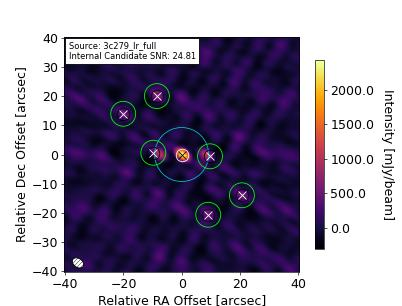
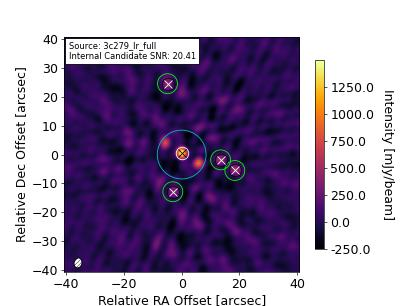
more testing

diff --git a/html/source_info.html b/html/source_info.html
@@ -12,7 +12,7 @@
     }
     </style>
     <body>
-    <p class='centered-large-text'>Source Information for 250106_13:01:37 (ObsID 00000) </p><table border="1" class="dataframe">
+    <p class='centered-large-text'>Source Information for 250106_15:00:08 (ObsID 00000) </p><table border="1" class="dataframe">
   <thead>
     <tr style="text-align: right;">
       <th></th>
@@ -26,27 +26,27 @@
     </tr>
     <tr>
       <th>target_dir</th>
-      <td>/sma/data/science/mir_data/250106_13:01:37</td>
+      <td>/sma/data/science/mir_data/250106_15:00:08</td>
     </tr>
     <tr>
       <th>sciTargs</th>
-      <td>M87</td>
+      <td></td>
     </tr>
     <tr>
       <th>gainCals</th>
-      <td>3c286</td>
+      <td>1653+397, 3c286</td>
     </tr>
     <tr>
       <th>fluxCals</th>
-      <td>vesta</td>
+      <td></td>
     </tr>
     <tr>
       <th>bpCals</th>
-      <td>3C279, 3C273</td>
+      <td>3c279, 3C279</td>
     </tr>
     <tr>
       <th>polCals</th>
-      <td>0958+655_LR, 3C279_LR, 3C273_LR</td>
+      <td>3C273_LR, 3c279_LR, 3C279_LR</td>
     </tr>
     <tr>
       <th>selfCals</th>
@@ -78,22 +78,13 @@
     </tr>
   </tbody>
 </table>
-        <img src='./vesta_full_rb5.0_et0.001.jpg'>
+        <img src='./3c279_full_rb5.0_et0.001.jpg'>
         <br>
         
         <img src='./3c279_lr_full_rb5.0_et0.001.jpg'>
         <br>
         
-        <img src='./3c279_full_rb5.0_et0.001.jpg'>
-        <br>
-        
-        <img src='./3c273_full_rb5.0_et0.001.jpg'>
-        <br>
-        
-        <img src='./3c273_lr_full_rb5.0_et0.001.jpg'>
-        <br>
-        
-        <img src='./m87_full_rb5.0_et0.001.jpg'>
+        <img src='./1653+397_full_rb5.0_et0.001.jpg'>
         <br>
         
         <img src='./3c286_full_rb5.0_et0.001.jpg'>
@@ -102,48 +93,9 @@
   <thead>
     <tr style="text-align: right;">
       <th></th>
-      <th>field_name</th>
-      <th>obs_date_time</th>
-      <th>file_name</th>
-      <th>beam_maj_axis</th>
-      <th>beam_min_axis</th>
-      <th>beam_pos_angle</th>
-      <th>flux_uncertainty</th>
-      <th>flux_density</th>
-      <th>coord_ra</th>
-      <th>coord_dec</th>
-      <th>internal</th>
     </tr>
   </thead>
   <tbody>
-    <tr>
-      <th>source_1</th>
-      <td>m87</td>
-      <td>6-13-25 11:15:25</td>
-      <td>m87_full.fits</td>
-      <td>3.163 arcsec</td>
-      <td>2.911 arcsec</td>
-      <td>81.0 deg</td>
-      <td>29.214 mJy</td>
-      <td>1406.991 mJy</td>
-      <td>187.706 deg</td>
-      <td>12.391 deg</td>
-      <td>True</td>
-    </tr>
-    <tr>
-      <th>source_2</th>
-      <td>m87</td>
-      <td>6-13-25 11:15:25</td>
-      <td>m87_full.fits</td>
-      <td>3.163 arcsec</td>
-      <td>2.911 arcsec</td>
-      <td>81.0 deg</td>
-      <td>29.214 mJy</td>
-      <td>187.087 mJy</td>
-      <td>187.709 deg</td>
-      <td>12.393 deg</td>
-      <td>False</td>
-    </tr>
   </tbody>
 </table>
     </body>
